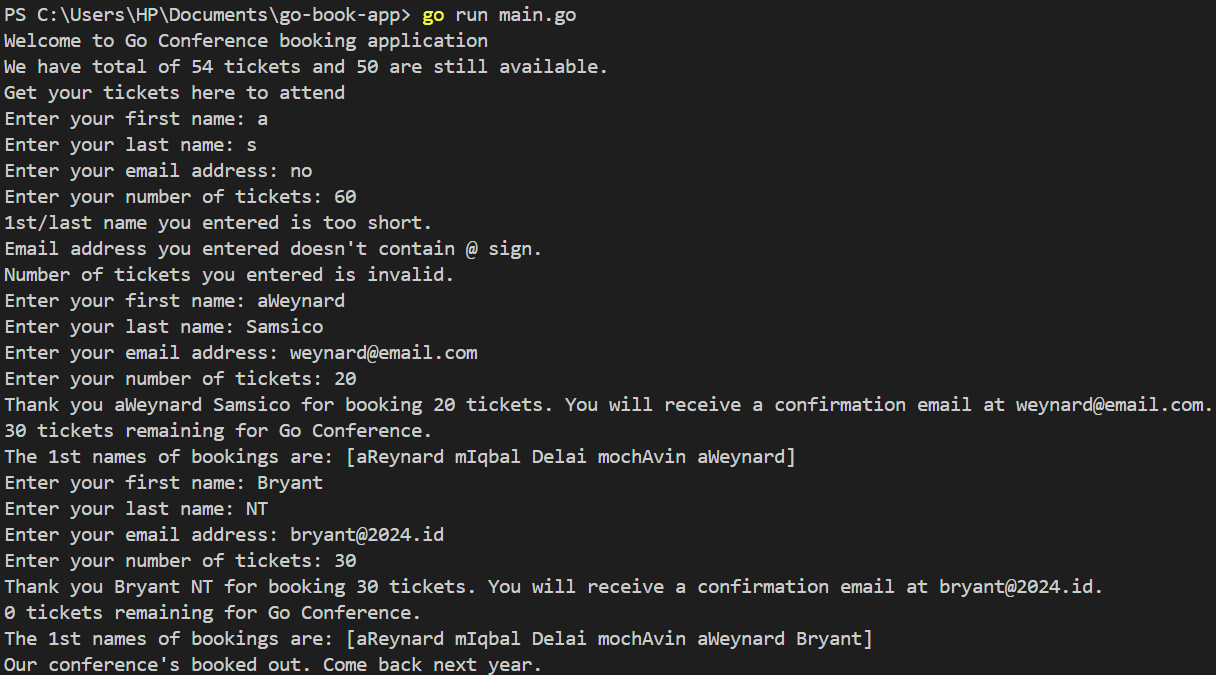
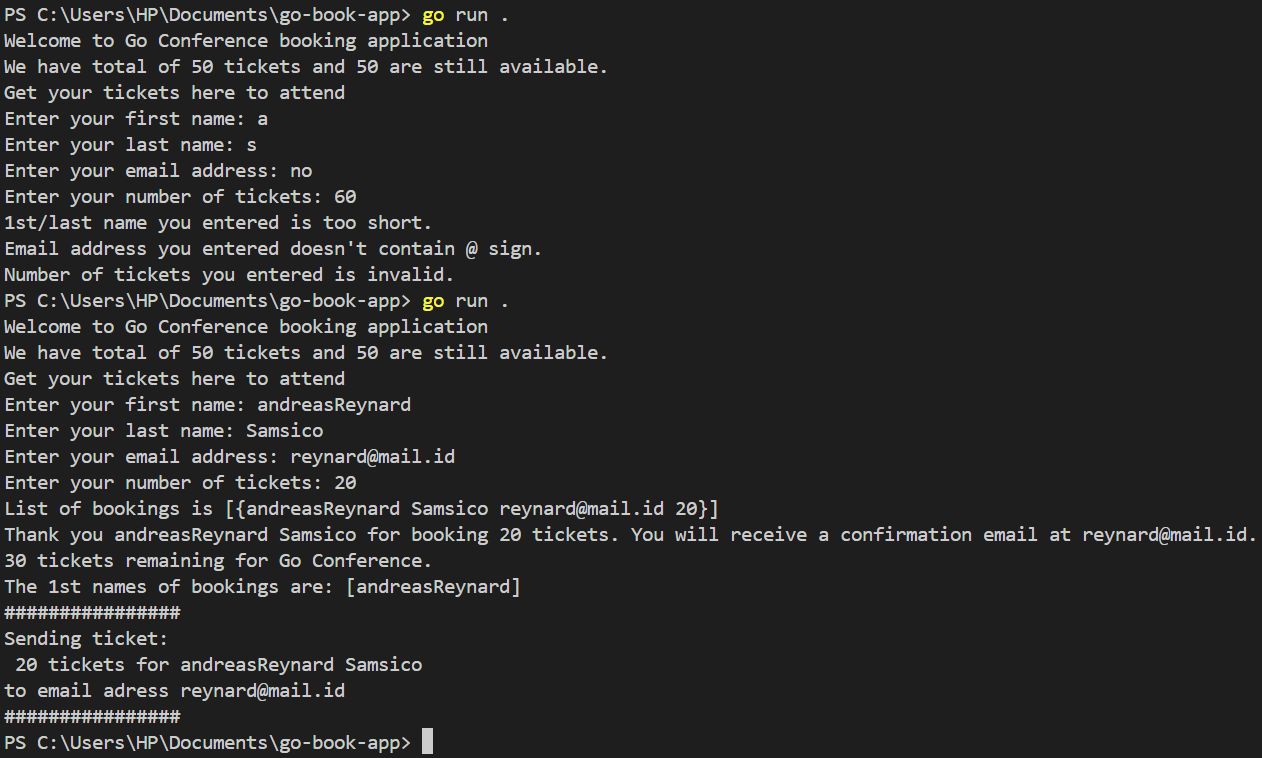
2nd commit!

Changed region(s): [[0.0, 0.0, 1.0, 1.0], [0.4062, 0.84, 0.9062, 0.9022]]

diff --git a/main.go b/main.go
@@ -2,88 +2,113 @@ package main
 
 import (
 	"fmt"
-	"strings"
+	"sync"
+	"time"
 )
 
-func main() {
-	confName := "Go Conference"
-	const confTickets uint = 54
-	var remTickets uint = confTickets
-	remTickets -= 4
-	bookings := []string{"aReynard Samsico", "mIqbal Ramadhan", "Delai R.S.", "mochAvin noLastName"}
+const confTickets uint = 50
 
+var confName = "Go Conference"
+var remTickets uint = confTickets
+var bookings = make([]UserData, 0)
+
+type UserData struct {
+	firstName       string
+	lastName        string
+	email           string
+	numberOfTickets uint
+}
+
+var wg = sync.WaitGroup{}
+
+func main() {
 	// fmt.Printf("Note 1: confName is %T, confTickets is %T, remTickets is %T\n", confName, confTickets, remTickets)
 	// fmt.Printf("Note 2: confName's ponter name is %v, remTickets' is %v\n", &confName, &remTickets)
+	greetUsers()
 
+	firstName, lastName, email, userTickets := getUserInput()
+	isValidName, isValidEmail, isValidTicketNum := ValidateUserInput(firstName, lastName, email, userTickets, remTickets)
+
+	if isValidName && isValidEmail && isValidTicketNum {
+		bookTicket(firstName, lastName, email, userTickets)
+		wg.Add(1)
+		go sendTicket(firstName, lastName, email, userTickets)
+
+		fmt.Printf("The 1st names of bookings are: %v\n", get1stNames())
+
+		if remTickets == 0 {
+			fmt.Println("Our conference's booked out. Come back next year.")
+			// break
+		}
+	} else {
+		if !isValidName {
+			fmt.Println("1st/last name you entered is too short.")
+		}
+		if !isValidEmail {
+			fmt.Println("Email address you entered doesn't contain @ sign.")
+		}
+		if !isValidTicketNum {
+			fmt.Println("Number of tickets you entered is invalid.")
+		}
+	}
+	wg.Wait()
+}
+
+func greetUsers() {
 	fmt.Printf("Welcome to %v booking application\n", confName)
 	fmt.Printf("We have total of %v tickets and %v are still available.\n", confTickets, remTickets)
 	fmt.Println("Get your tickets here to attend")
+}
 
-	for {
-		var firstName string
-		var lastName string
-		var email string
-		var userTickets uint
-		// ask user for their personal data
-		fmt.Print("Enter your first name: ")
-		fmt.Scan(&firstName)
-		fmt.Print("Enter your last name: ")
-		fmt.Scan(&lastName)
-		fmt.Print("Enter your email address: ")
-		fmt.Scan(&email)
-		fmt.Print("Enter your number of tickets: ")
-		fmt.Scan(&userTickets)
+func get1stNames() []string {
+	firstNames := []string{}
+	for _, booking := range bookings {
+		firstNames = append(firstNames, booking.firstName)
+	}
+	return firstNames
+}
 
-		isValidName := len(firstName) >= 2 && len(lastName) >= 2
-		isValidEmail := strings.Contains(email, "@")
-		isValidTicketNum := userTickets > 0 && userTickets <= remTickets
+func getUserInput() (string, string, string, uint) {
+	var f string
+	fmt.Print("Enter your first name: ")
+	fmt.Scan(&f)
 
-		if isValidName && isValidEmail && isValidTicketNum {
-			remTickets -= userTickets
-			bookings = append(bookings, firstName+" "+lastName)
+	var l string
+	fmt.Print("Enter your last name: ")
+	fmt.Scan(&l)
 
-			fmt.Printf("Thank you %v %v for booking %v tickets. You will receive a confirmation email at %v.\n%v tickets remaining for %v.\n", firstName, lastName, userTickets, email, remTickets, confName)
+	var e string
+	fmt.Print("Enter your email address: ")
+	fmt.Scan(&e)
 
-			firstNames := []string{}
-			for _, booking := range bookings {
-				var names = strings.Fields(booking)
-				firstNames = append(firstNames, names[0])
-			}
-			fmt.Printf("The 1st names of bookings are: %v\n", firstNames)
-			// fmt.Printf("The first value: %v\n", bookings[0])
-			// fmt.Printf("Slice type: %T\n", bookings)
-			// fmt.Printf("Slice length: %v\n", len(bookings))
+	var u uint
+	fmt.Print("Enter your number of tickets: ")
+	fmt.Scan(&u)
 
-			if remTickets == 0 {
-				// end program
-				fmt.Println("Our conference's booked out. Come back next year.")
-				break
-			}
-		} else {
-			if !isValidName {
-				fmt.Println("1st/last name you entered is too short.")
-			}
-			if !isValidEmail {
-				fmt.Println("Email address you entered doesn't contain @ sign.")
-			}
-			if !isValidTicketNum {
-				fmt.Println("Number of tickets you entered is invalid.")
-			}
-		}
+	return f, l, e, u
+}
+
+func bookTicket(f string, l string, e string, u uint) {
+	remTickets -= u
+
+	var userData = UserData{
+		firstName:       f,
+		lastName:        l,
+		email:           e,
+		numberOfTickets: u,
 	}
 
-	// city := "London"
+	bookings = append(bookings, userData)
+	fmt.Printf("List of bookings is %v\n", bookings)
 
-	// switch city {
-	// case "New York":
-	// 	//...
-	// case "Singapore", "Hong Kong":
-	// 	//...
-	// case "London", "Berlin":
-	// 	//...
-	// case "Mexico City":
-	// 	//...
-	// default:
-	// 	fmt.Print("No valid city Selected")
-	// }
+	fmt.Printf("Thank you %v %v for booking %v tickets. You will receive a confirmation email at %v.\n%v tickets remaining for %v.\n", f, l, u, e, remTickets, confName)
+}
+
+func sendTicket(f string, l string, e string, u uint) {
+	time.Sleep(50 * time.Second)
+	var ticket = fmt.Sprintf("%v tickets for %v %v", u, f, l)
+	fmt.Println("################")
+	fmt.Printf("Sending ticket:\n %v \nto email adress %v\n", ticket, e)
+	fmt.Println("################")
+	wg.Done()
 }

diff --git a/helper.go b/helper.go
@@ -1,0 +1,10 @@
+package main
+
+import "strings"
+
+func ValidateUserInput(f string, l string, e string, u uint, n uint) (bool, bool, bool) {
+	vn := len(f) >= 2 && len(l) >= 2
+	ve := strings.Contains(e, "@")
+	vt := u > 0 && u <= n
+	return vn, ve, vt
+}

diff --git a/README.md b/README.md
@@ -1,9 +1,14 @@
 ![Terminal](img/terminal.png)
 
-Gambar ini adalah terminal yang menunjukan keberhasilan pengunaan kerangka kerja GO (bagian 1). Berikut adalah fitur-fitur di kode ini:
+Gambar ini adalah terminal yang menunjukan keberhasilan pengunaan kerangka kerja GO (bagian 2). Berikut adalah fitur-fitur di kode ini:
 
 - Banyak tiket yang tersisa,
 - Array berisikan daftar _bookings_, dan
 - Permintaan untuk input nama, email, dan banyak tiket yang butuh beserta validasi masing-masing input apakah pantas untuk didaftarkan sebagai peserta.
+- Format pendapatan tiket setelah menunggu 50 detik
+
+Gambar terminal lama dapat dilihat di bawah ini:
+
+![Terminal Lama](img/terminal_lama.png)
 
 -- Andreas Reynard Samsico 5025221020 PBKK D
